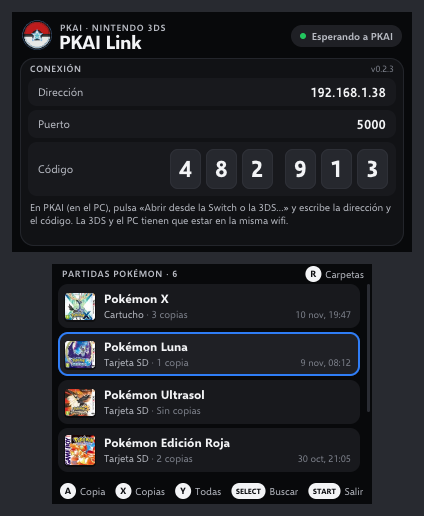
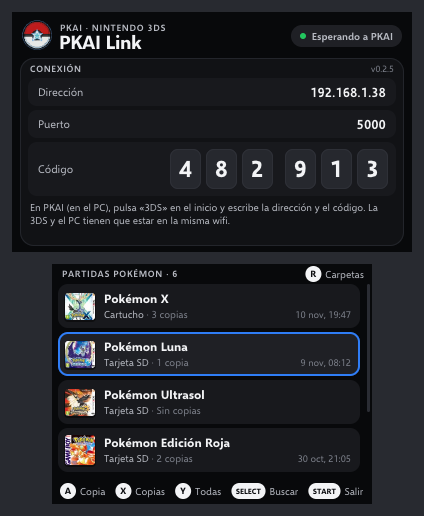
Inicio nuevo de PKAI: botones de Switch y 3DS, y capturas de la 0.2.5

Changed region(s): [[0.0613, 0.3721, 0.7972, 0.4341], [0.8278, 0.3721, 0.9198, 0.4341]]

diff --git a/docs/PKAI.md b/docs/PKAI.md
@@ -29,7 +29,7 @@
 
 <table>
   <tr>
-    <td width="50%"><img src="imagenes/pkai-inicio.png" alt="El inicio de PKAI"><br><sub>El inicio: abre una partida del equipo o de la consola.</sub></td>
+    <td width="50%"><img src="imagenes/pkai-inicio.png" alt="El inicio de PKAI"><br><sub>El inicio: abre una partida del equipo, de la Switch o de la 3DS.</sub></td>
     <td width="50%"><img src="imagenes/pkai-cajas.png" alt="Las cajas"><br><sub>Las cajas, el equipo y el Pokémon elegido, con su legalidad.</sub></td>
   </tr>
   <tr>
@@ -73,7 +73,7 @@ Las dos necesitan WebView2 de Microsoft, que ya viene con Windows 11. En Windows
 
 ### 1. Abrir una partida
 - **Abrir partida…** y elige el archivo: `main`, `.sav`, `.dsv`, `.dat`, `.gci`, `.bin`…
-- O **Abrir desde la Switch o la 3DS…** para traerla de la consola por wifi (con [PKAI Link](PKAI-Link.md)).
+- O pulsa **Switch** o **3DS** para traerla de la consola por wifi (con [PKAI Link](PKAI-Link.md)).
 - Las partidas que abras salen después en **Recientes**, con la carátula de su juego.
 
 Las partidas tienen que estar descifradas, como las sacan los gestores de partidas (Checkpoint, JKSV, JKSM…) o PKAI Link.

diff --git a/docs/PKAI-Link.md b/docs/PKAI-Link.md
@@ -76,7 +76,7 @@ Después, ábrelo desde el menú HOME.
 ## Conectar con PKAI
 
 1. Abre PKAI Link en la consola. En su pantalla verás la **dirección**, el **puerto** y un **código** de 6 cifras.
-2. En PKAI (PC o móvil): **Abrir desde la Switch o la 3DS…**, escribe la dirección y el código y pulsa **Conectar**.
+2. En el inicio de PKAI (PC o móvil), pulsa **Switch** o **3DS**, escribe la dirección y el código y pulsa **Conectar**.
 3. Verás tus partidas. **Abrir** la trae a PKAI; **Copias…** enseña sus copias de seguridad.
 
 <table>
